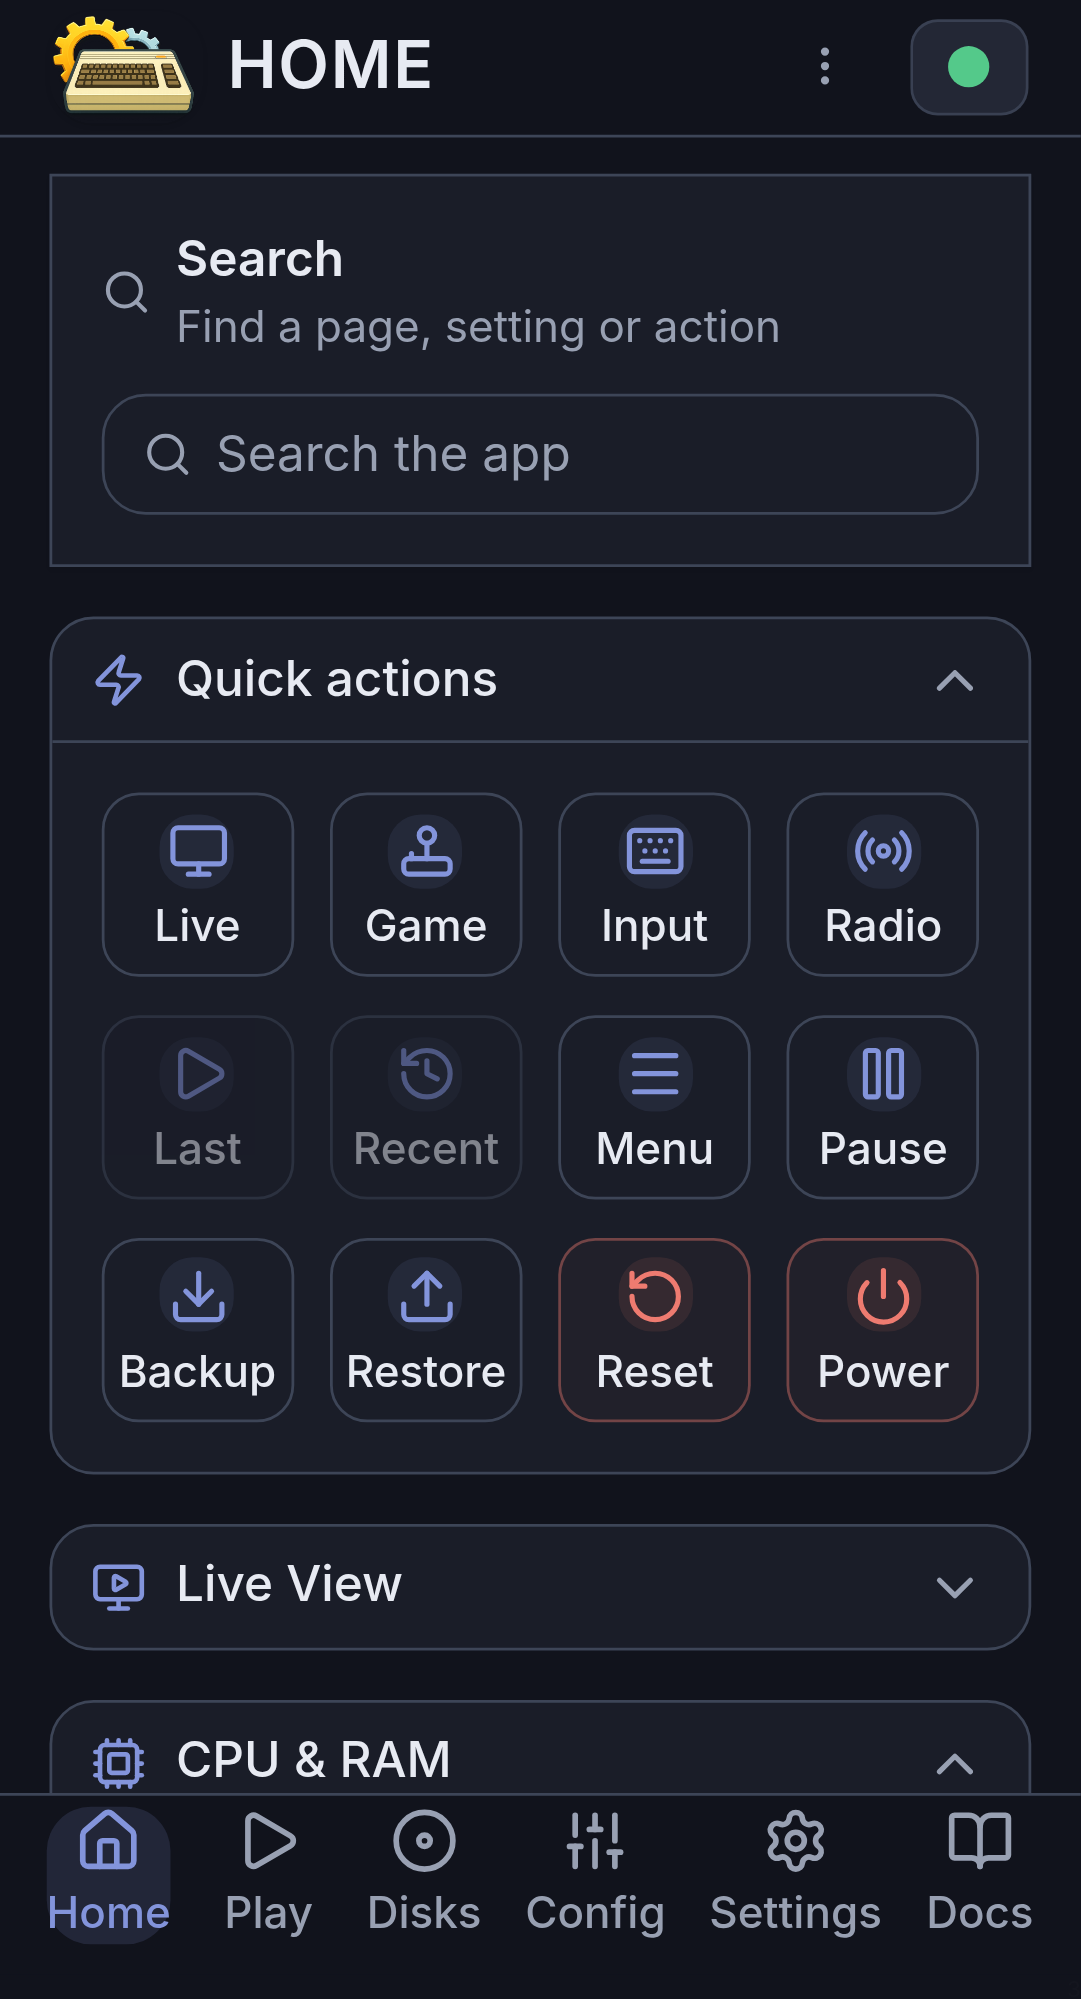
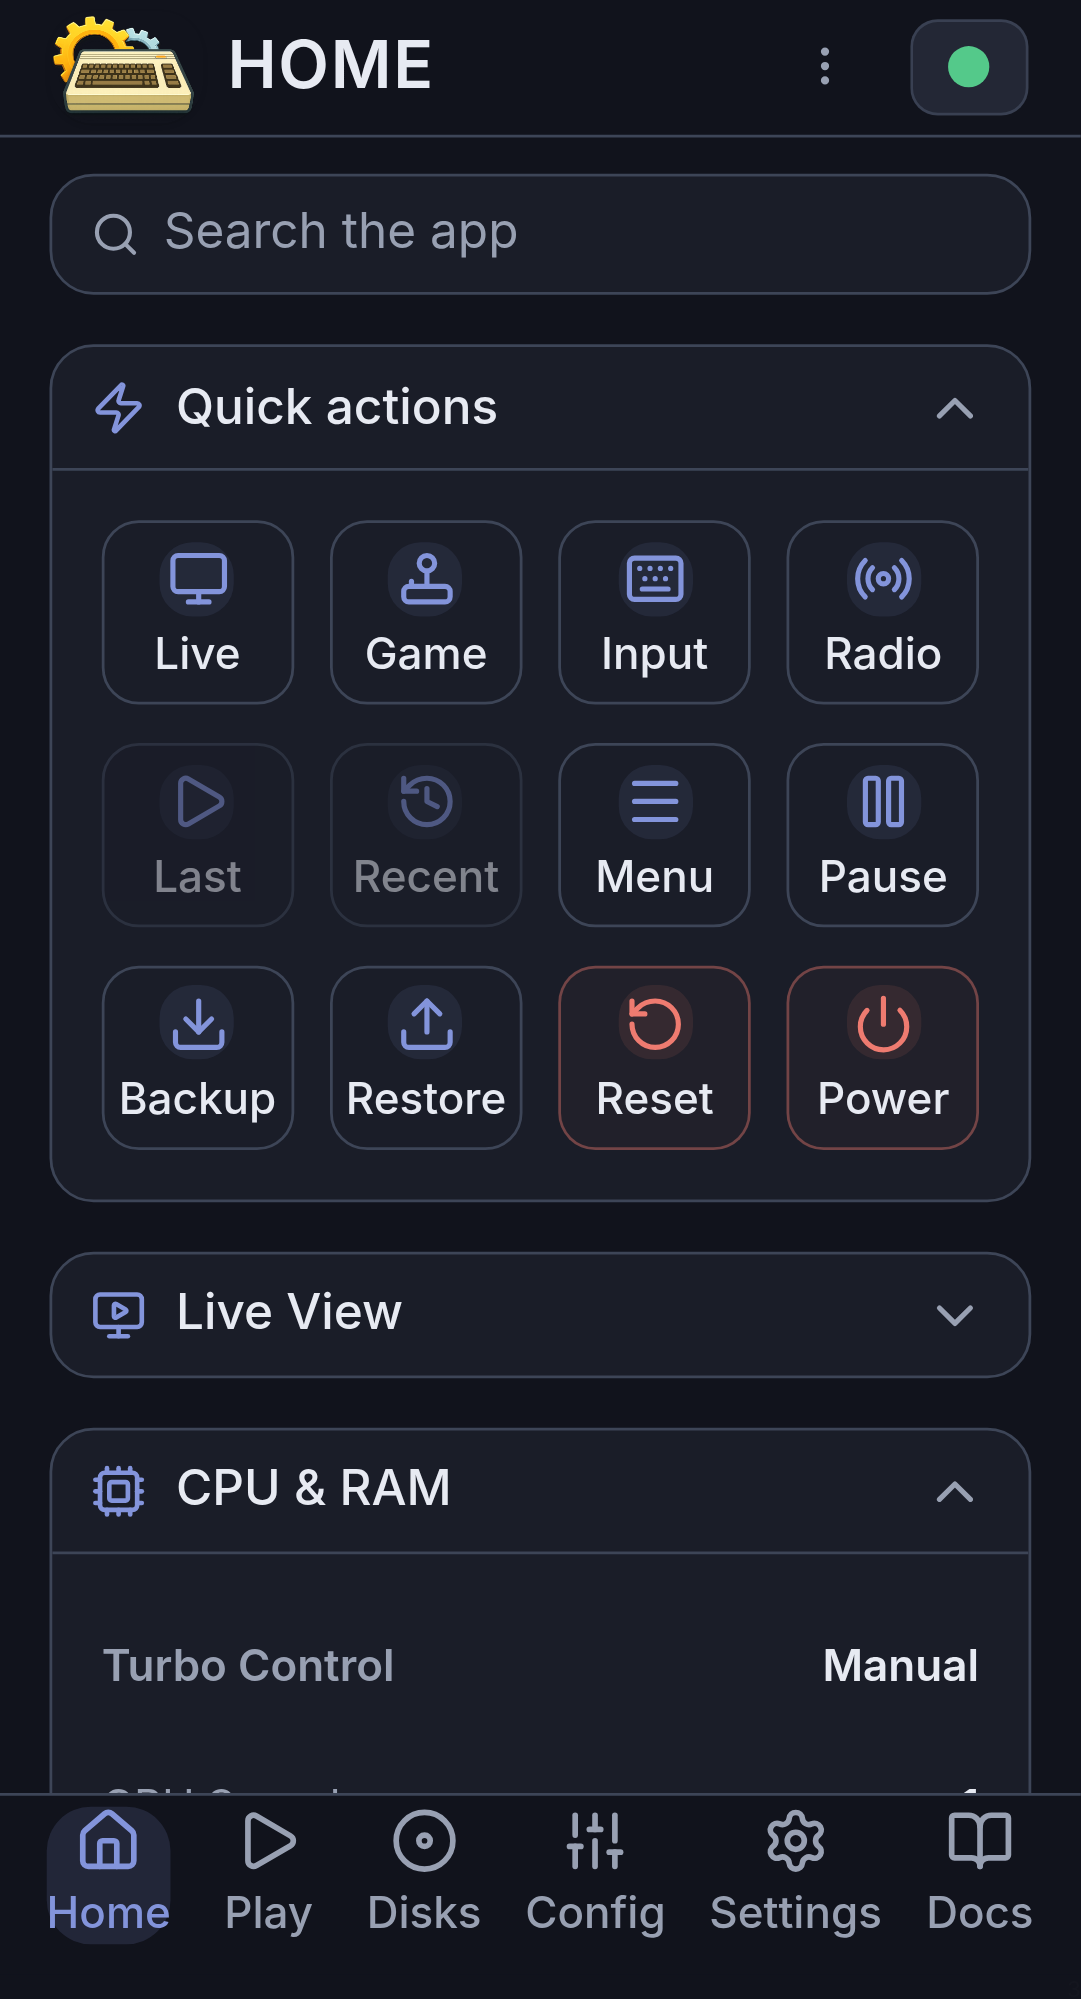
Keep Search outside cards across Home and SID Player
Render the shared Home and SID Player Search entry as one standalone field. Add regression assertions that it has no section-card ancestor, and refresh the dark Home and SID Player manual screenshots.

Ignore Trail's generated cache during Prettier checks; it is local tool data and is already excluded from Git.

diff --git a/src/pages/home/components/HomeSearchField.tsx b/src/pages/home/components/HomeSearchField.tsx
@@ -7,65 +7,30 @@
  */
 
 import { Search } from "lucide-react";
-import { CollapsibleSection } from "@/components/CollapsibleSection";
 import { t } from "@/lib/i18n";
 import { requestSearchOpen } from "@/lib/search/overlayState";
 
 /**
- * The first of search's three doors, at the top of Home (spec.md D3 and section 5.7).
+ * The first of search's three doors, at the top of Home and SID Player (spec.md D3 and section 5.7).
  *
  * A button that looks like a field, not a field. Tapping it expands into the overlay rather than
  * searching in place, so the results get the whole screen instead of the strip left over above the
  * on-screen keyboard — and the app bar is left alone, where the title zone already wraps at the
- * smallest screen and largest text size.
+ * smallest screen and largest text size. Keep it standalone so it is never hidden by a collapsible
+ * card on either surface.
  */
-export const HomeSearchField = ({ scope = "home" }: { scope?: "home" | "play" } = {}) => {
-  const field = (
-    <button
-      type="button"
-      onClick={() => requestSearchOpen({ source: "home-field" })}
-      data-testid="home-search-field"
-      aria-label={t("search.openFromHome", "Search the app")}
-      className="flex min-h-11 w-full items-center gap-2 rounded-panel border border-border bg-card px-3 text-left text-sm text-muted-foreground"
-    >
-      <Search className="h-4 w-4 shrink-0" aria-hidden />
-      <span className="min-w-0 truncate">{t("search.placeholder", "Search the app")}</span>
-      <kbd className="ml-auto hidden shrink-0 rounded-sm border border-border bg-muted px-1 py-0.5 font-sans text-xs font-semibold sm:inline">
-        7
-      </kbd>
-    </button>
-  );
-
-  if (scope === "home") {
-    return (
-      <section
-        aria-label="Search"
-        data-testid="home-search-card"
-        className="rounded-card border border-border bg-card p-4 shadow-elev-1"
-      >
-        <div className="mb-3 flex items-center gap-2">
-          <Search className="h-4 w-4 shrink-0 text-muted-foreground" aria-hidden />
-          <div>
-            <h2 className="text-sm font-semibold">Search</h2>
-            <p className="text-xs text-muted-foreground">Find a page, setting or action</p>
-          </div>
-        </div>
-        {field}
-      </section>
-    );
-  }
-
-  return (
-    <CollapsibleSection
-      scope={scope}
-      id="search"
-      title="Search"
-      summary="Find a page, setting or action"
-      icon={Search}
-      defaultOpen
-      testId={`${scope}-search-card`}
-    >
-      <div className="p-4 pt-0">{field}</div>
-    </CollapsibleSection>
-  );
-};
+export const HomeSearchField = () => (
+  <button
+    type="button"
+    onClick={() => requestSearchOpen({ source: "home-field" })}
+    data-testid="home-search-field"
+    aria-label={t("search.openFromHome", "Search the app")}
+    className="flex min-h-11 w-full items-center gap-2 rounded-panel border border-border bg-card px-3 text-left text-sm text-muted-foreground"
+  >
+    <Search className="h-4 w-4 shrink-0" aria-hidden />
+    <span className="min-w-0 truncate">{t("search.placeholder", "Search the app")}</span>
+    <kbd className="ml-auto hidden shrink-0 rounded-sm border border-border bg-muted px-1 py-0.5 font-sans text-xs font-semibold sm:inline">
+      7
+    </kbd>
+  </button>
+);

diff --git a/tests/unit/pages/playFiles/PlayListeningShortcuts.test.tsx b/tests/unit/pages/playFiles/PlayListeningShortcuts.test.tsx
@@ -39,7 +39,10 @@ describe("PlayListeningShortcuts", () => {
     saveStartupModeByUser("sid-player");
     renderShortcuts(true);
 
-    expect(screen.getByTestId("home-search-field")).toBeInTheDocument();
+    const searchField = screen.getByTestId("home-search-field");
+    expect(searchField).toBeInTheDocument();
+    expect(searchField.closest('[data-section-scope="play"]')).toBeNull();
+    expect(screen.queryByTestId("play-search-card")).toBeNull();
     expect(screen.getByTestId("play-listening-shortcuts")).toBeInTheDocument();
     expect(screen.getByTestId("home-tile-action.sid-radio")).toBeInTheDocument();
     expect(screen.getByTestId("home-tile-action.resume-session")).toBeInTheDocument();
@@ -51,7 +54,10 @@ describe("PlayListeningShortcuts", () => {
     saveStartupModeByUser("sid-player");
     renderShortcuts(false);
 
-    expect(screen.getByTestId("home-search-field")).toBeInTheDocument();
+    const searchField = screen.getByTestId("home-search-field");
+    expect(searchField).toBeInTheDocument();
+    expect(searchField.closest('[data-section-scope="play"]')).toBeNull();
+    expect(screen.queryByTestId("play-search-card")).toBeNull();
     expect(screen.queryByTestId("play-listening-shortcuts")).toBeNull();
   });
 

diff --git a/tests/unit/pages/HomePage.test.tsx b/tests/unit/pages/HomePage.test.tsx
@@ -2420,11 +2420,13 @@ describe("HomePage offline arrangement", () => {
     resetSavedDevicesCacheForTests();
   };
 
-  it("keeps the Home search card visible without a collapse control", () => {
+  it("keeps the Home search field visible outside all cards", () => {
     renderWithRouter(<HomePage />);
 
-    expect(screen.getByTestId("home-search-card")).toBeVisible();
-    expect(screen.getByRole("button", { name: "Search the app" })).toBeVisible();
+    const searchField = screen.getByRole("button", { name: "Search the app" });
+    expect(searchField).toBeVisible();
+    expect(searchField.closest("[data-section-scope]")).toBeNull();
+    expect(screen.queryByTestId("home-search-card")).toBeNull();
     expect(screen.queryByTestId("home-section-toggle-search")).not.toBeInTheDocument();
   });
 

diff --git a/playwright/playKeyboardReachability.spec.ts b/playwright/playKeyboardReachability.spec.ts
@@ -107,6 +107,12 @@ test.describe("Play page keyboard reachability", () => {
     test(`${mode} on ${profile}: keyboard reaches settings and continues to the cards below`, async ({ page }) => {
       await startPlayPage(page, server.baseUrl, mode, profile);
 
+      if (mode === "sid-player") {
+        const searchField = page.getByTestId("home-search-field");
+        await expect(searchField).toBeVisible();
+        expect(await searchField.evaluate((element) => element.closest('[data-section-scope="play"]'))).toBeNull();
+      }
+
       const settings = page.getByTestId("play-section-playback-settings");
       const settingsToggle = settings.locator("button[aria-expanded]").first();
       const sleepTimerOff = page.getByTestId("sleep-timer-off");

diff --git a/src/pages/playFiles/components/PlayListeningShortcuts.tsx b/src/pages/playFiles/components/PlayListeningShortcuts.tsx
@@ -144,7 +144,7 @@ export const PlayListeningShortcuts = ({
 }) =>
   isSurfaceVisible("play:listening-shortcuts", useAppMode()) ? (
     <>
-      <HomeSearchField scope="play" />
+      <HomeSearchField />
       {playlistEmpty ? <StartListening hvscInstalled={hvscInstalled} /> : null}
     </>
   ) : null;

diff --git a/.trail/learnings/2026-11-03-keep-the-shared-search-field-outside-christian.md b/.trail/learnings/2026-11-03-keep-the-shared-search-field-outside-christian.md
@@ -1,0 +1,34 @@
+---
+title: Keep the shared search field outside collapsible cards
+author: Christian
+date: 2026-11-03
+branch: fix/play-keyboard-reachability
+id: l-5da6d5f8
+scope: repo
+status: active
+src: agent
+touches:
+  - ".prettierignore"
+  - docs/img/app/home/01-overview-dark.png
+  - docs/img/app/sid-player/profiles/compact/02-playing-playlist.png
+  - docs/img/app/sid-player/profiles/medium/02-playing-playlist.png
+  - playwright/playKeyboardReachability.spec.ts
+  - src/pages/home/components/HomeSearchField.tsx
+  - src/pages/playFiles/components/PlayListeningShortcuts.tsx
+  - tests/unit/pages/HomePage.test.tsx
+  - tests/unit/pages/playFiles/PlayListeningShortcuts.test.tsx
+---
+
+## Decided
+Keep the shared Search field standalone on Home and at the top of Play in SID Player mode because it is a primary entry point that should remain immediately visible and behave consistently across surfaces and themes.
+
+## Tried and ruled out
+A fixed Home wrapper paired with a collapsible Play wrapper still made the shared entry point look and behave differently, so keeping the field unwrapped on both surfaces is the clearest invariant.
+
+## Watch out
+A caller can still place this component inside a card even when the component itself is unwrapped. Assert that the Home and SID Player field has no `data-section-scope` ancestor, and refresh the Home dark and SID Player manual screenshots if this layout changes.
+
+In the code:
+- `src/pages/home/components/HomeSearchField.tsx` renders the field without a card wrapper.
+- `src/pages/playFiles/components/PlayListeningShortcuts.tsx` places the same field before the SID Player listening card.
+- `tests/unit/pages/HomePage.test.tsx`, `tests/unit/pages/playFiles/PlayListeningShortcuts.test.tsx`, and `playwright/playKeyboardReachability.spec.ts` lock the standalone behavior.
